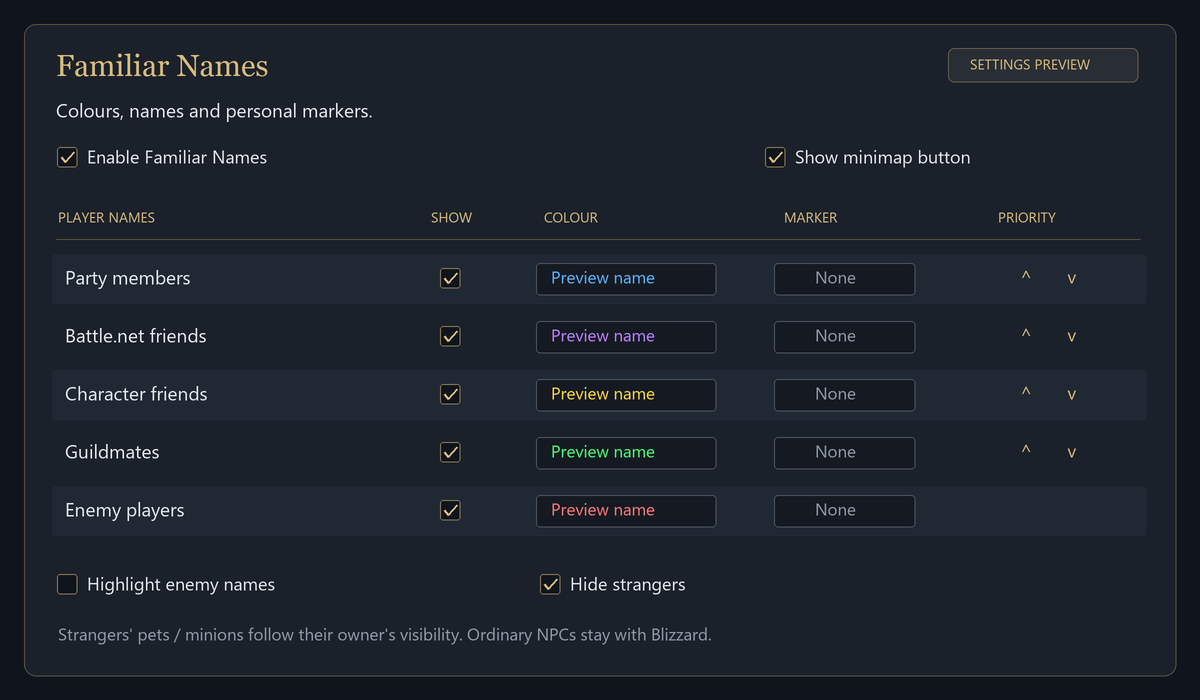
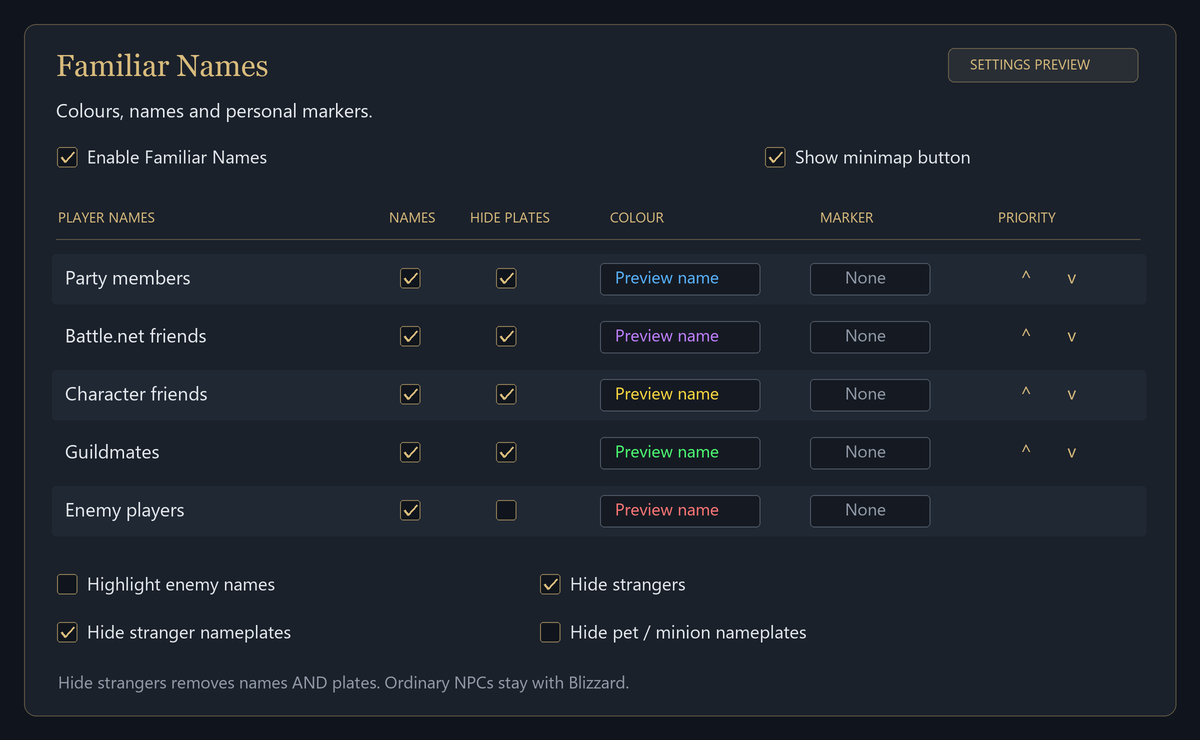
Hide full nameplates and add category toggles

diff --git a/docs/DEVELOPMENT.md b/docs/DEVELOPMENT.md
@@ -15,6 +15,7 @@ Settings are saved per character. No other addon or library is needed.
 
 - Separate visibility and colour settings for party members, guildmates, character friends and Battle.net friends.
 - The highest visible matching category supplies the colour and automatic marker. Move categories with the priority arrows. For example, hiding party names still allows a party member's name through if they are also in an enabled friends category.
+- Each category has its own **Hide plates** checkbox. It removes the entire native plate (health/cast bars, auras and level badge) while keeping the addon's enabled name. Pets inherit their owner's category rule. **Hide stranger nameplates** controls unknown friendly plates independently of their names, and **Hide pet / minion nameplates** also covers your own and enemy minions. Hiding a category's names, or enabling **Hide strangers**, always hides its plate too.
 - **Hide strangers** hides unknown *friendly players*. Enemy players have an independent visibility setting, enabled by default, and optional custom highlighting, disabled by default.
 - Player-owned pets, guardians, summons, totems and companions follow their owner's visibility rule. Ownership is resolved by GUID, including chains of summons. Party tokens and the guild roster retain membership when an owner is off screen; friends and Battle.net friends are matched directly by GUID. Unidentified friendly minions are hidden when strangers are hidden.
 - Battle.net friends display their character names, not their BattleTags or account names.
@@ -51,12 +52,13 @@ Custom overhead names require an accessible nameplate within the client's normal
 
 **Player customisation is deliberately suspended in all instances**, including dungeons, raids, battlegrounds, arenas and scenarios. This keeps Blizzard player names available where friendly nameplates or player identities may be protected. Custom names and player markers resume in the open world. Manual NPC markers can still appear on accessible NPC nameplates in instances.
 
-The addon enables name-only friendly player plates and temporarily manages these player settings:
+The addon enables friendly player plates and temporarily manages these player settings:
 
 - `UnitNameFriendlyPlayerName`
 - `UnitNameEnemyPlayerName`
 - `nameplateShowFriendlyPlayers`
-- `nameplateShowOnlyNameForFriendlyPlayerUnits`
+
+It does not force Blizzard's global friendly names-only setting. Unchecked **Hide plates** boxes use Blizzard's current plate style; social categories default to hidden plates so enabled names remain uncluttered. Enemy plates remain visible by default.
 
 While filtering pets, it also temporarily suppresses native player-minion labels (`UnitNameFriendlyMinionName`, and available pet/guardian/totem variants; the equivalent enemy values when enemies are hidden) and enables friendly player-minion plates. All values are saved before writes and restored when filtering is turned off. Known friendly pets get replacement names on accessible plates. Their names honour the original minion-name setting. Their owners' automatic markers are not copied to pets.
 
@@ -85,6 +87,8 @@ Tests cover filtering, category overlap, Battle.net matching, default and custom
 
 The pet regression matrix covers six unit types across strangers, your own units, party members, character friends, Battle.net friends and guildmates. Additional cases cover enemy pets, missing/secret owners, nested ownership, ownership cycles, guild changes, native refreshes and restoration.
 
+The nameplate regression cases also check health/cast bars and level badges, independent category controls, native alpha refreshes, shared raid markers, plate reuse and combat restrictions. Hidden plates' click areas are cleared only when `CanChangeHitTestPoints()` permits it. If combat protects the click area, visual hiding still applies and click-area updates wait for a permitted update or combat ending. Restoration uses the current Blizzard layout. Shared raid icons are mirrored outside a hidden plate so existing assignments remain visible.
+
 The README images are drawn illustrations of the controls and visibility rules, not in-game screenshots.
 
 API references checked against Blizzard's published UI source, mirrored on the `forever` branch:
@@ -92,4 +96,5 @@ API references checked against Blizzard's published UI source, mirrored on the `
 - [Forever nameplate settings](https://github.com/Gethe/wow-ui-source/blob/forever/Interface/AddOns/Blizzard_SettingsDefinitions_Frame/Nameplates.lua)
 - [Nameplate lifecycle](https://github.com/Gethe/wow-ui-source/blob/forever/Interface/AddOns/Blizzard_NamePlates/Blizzard_NamePlateBase.lua)
 - [Native name rendering](https://github.com/Gethe/wow-ui-source/blob/forever/Interface/AddOns/Blizzard_UnitFrame/Shared/CompactUnitFrame.lua)
+- [Protected nameplate click areas](https://github.com/Gethe/wow-ui-source/blob/forever/Interface/AddOns/Blizzard_APIDocumentationGenerated/FrameAPINamePlateDocumentation.lua)
 - [Friend and Battle.net APIs](https://github.com/Gethe/wow-ui-source/blob/forever/Interface/AddOns/Blizzard_APIDocumentationGenerated/BattleNetDocumentation.lua)

diff --git a/README.md b/README.md
@@ -3,6 +3,7 @@
 WoW Forever addon. Colour names for friends, Battle.net friends, guild mates and party members.
 
 - Hide strangers and their pets / minions.
+- Hide nameplates per category, while keeping coloured names.
 - Enemy names visible by default, with optional highlighting.
 - Personal markers only you can see.
 - Blizzard-style settings, `/names` and a minimap button.
